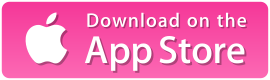
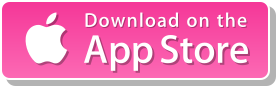
Adds drop shadow to App Store badge

diff --git a/_includes/css/style.scss b/_includes/css/style.scss
@@ -333,8 +333,8 @@ a:hover, a:focus {
  * iPhone section
  ****************************************/
 
-$badge_height: 40;
-$badge_width: 135;
+$badge_height: 43;
+$badge_width: 138;
 $badge_container_height: $badge_height;
 $badge_container_width: $badge_width;
 $iphone_height: 754;
